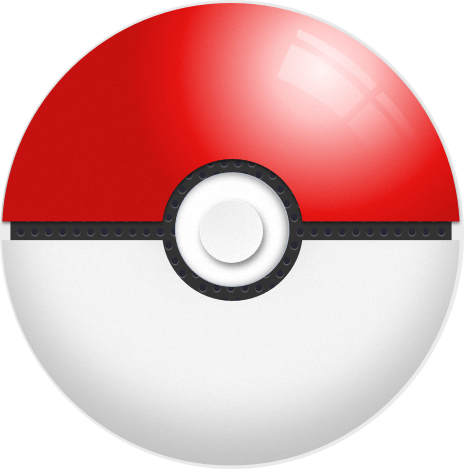
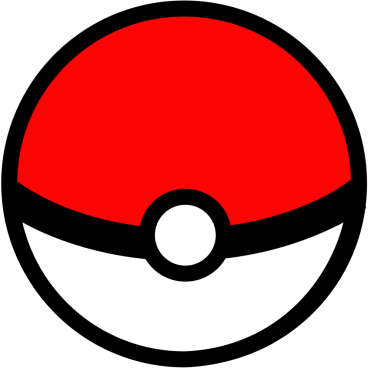
changed pokeball image

diff --git a/lib/bundle.js b/lib/bundle.js
@@ -297,8 +297,8 @@
 	  function createPokeball() {
 	    var xOffset = Math.random() * 1000 + 1200;
 	    return { pos: [xOffset, 540],
-	      boxSize: [140, 140],
-	      sprite: new _sprite2.default(pokeball, [0, 0], [600, 600]) };
+	      boxSize: [100, 100],
+	      sprite: new _sprite2.default(pokeball, [0, 0], [368, 368]) };
 	  }
 	
 	  //updating your Pikachu Sprite.
@@ -332,6 +332,7 @@
 	    }
 	    //draw the player
 	    renderEntity(player);
+	
 	    //draw the pokeballs
 	    renderEntities(enemies);
 	    if (win === 1) {
@@ -340,7 +341,6 @@
 	    if (enemies.length > 0) {
 	      for (var i = 0; i < enemies.length; i++) {
 	        if (Collision.boxCollision(player.pos, player.boxSize, enemies[i].pos, enemies[i].boxSize)) {
-	
 	          return -1;
 	        }
 	      }
@@ -434,6 +434,7 @@
 	            }
 	            //x and y tell you which frame to start drawing from.
 	            ctx.drawImage(url, x, y, this.size[0], this.size[1], 0, 0, boxSize[0], boxSize[1]);
+	            ctx.strokeRect(0, 0, boxSize[0], boxSize[1]);
 	        }
 	    }]);
 	

diff --git a/lib/pikachuRacer.js b/lib/pikachuRacer.js
@@ -245,11 +245,13 @@ function boundaryCheck(){
 }
 
 
+
+
   function createPokeball(){
     let xOffset = Math.random() * 1000 + 1200;
     return { pos: [xOffset, 540],
-      boxSize: [140, 140],
-      sprite: new Sprite(pokeball, [0,0], [600, 600])};
+      boxSize: [100, 100],
+      sprite: new Sprite(pokeball, [0,0], [368, 368])};
   }
 
 //updating your Pikachu Sprite.
@@ -283,6 +285,7 @@ function boundaryCheck(){
     }
     //draw the player
     renderEntity(player);
+    
     //draw the pokeballs
     renderEntities(enemies);
     if(win ===1){
@@ -291,7 +294,6 @@ function boundaryCheck(){
     if(enemies.length > 0){
       for (var i = 0; i < enemies.length; i++) {
         if(Collision.boxCollision(player.pos, player.boxSize, enemies[i].pos, enemies[i].boxSize)){
-
           return -1;
         }
       }

diff --git a/index.html b/index.html
@@ -3,7 +3,7 @@
   <head>
     <meta charset="utf-8">
     <title>Pikachu Racer</title>
-    <link rel="shortcut icon" type="image/png" href="assets/pikachufavicon.png">
+    <link rel="shortcut icon" type="image/png" href="assets/pokeballfavicon.png">
     <link href="https://fonts.googleapis.com/css?family=Hind|Montserrat" rel="stylesheet">
     <link rel="stylesheet" href="https://cdnjs.cloudflare.com/ajax/libs/font-awesome/4.7.0/css/font-awesome.min.css">
     <link rel="stylesheet" href="assets/stylesheets/game.css">

diff --git a/lib/sprite.js b/lib/sprite.js
@@ -51,6 +51,7 @@ class Sprite {
                     this.size[0], this.size[1],
                     0, 0,
                     boxSize[0], boxSize[1]);
+       ctx.strokeRect(0, 0, boxSize[0], boxSize[1]);
   }
 }
 
